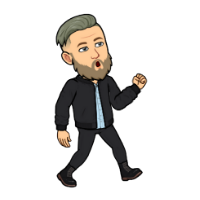
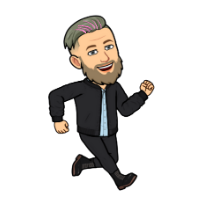
Added Sean character, game board background and user controlled movements.

Changed region(s): [[0.24, 0.06, 0.78, 0.96]]

diff --git a/Characters_and_Gameboard/sean_character.py b/Characters_and_Gameboard/sean_character.py
@@ -1,273 +1,101 @@
 import pygame
-import random
-import pygame.font
-import pygame.event
-import pygame.draw
-import os
-import sys
-from pygame.locals import * 
-# (
-#     RLEACCEL,
-#     K_UP,
-#     K_w,
-#     K_DOWN,
-#     K_LEFT,
-#     K_RIGHT,
-#     K_ESCAPE,
-#     KEYDOWN,
-#     QUIT,
-# )
+import math
 
+#Intialize Pygame
 pygame.init()
 
-#Define a player object by extedning pygame.sprite
-#The surgace drawn on the screen is now an attribute of the player
-class Player(pygame.sprite.Sprite):
-    def __init__(self,name, shirt_color, catch_phrase ):
-        super(Player, self).__init__()
-        #self.surf = pygame.Surface((75,25))
-        #self.surf.fill((255,255,255))
-        ##Adding a pic
-        self.name = name
-        self.shirt_color = shirt_color
-        self.catch_phrase = catch_phrase
-        self.surf = pygame.image.load("Sean_Front.png").convert()
-        self.surf.set_colorkey((0,0,0), RLEACCEL)
-        self.rect = self.surf.get_rect()
-    #moving based on keystrokes
-    def update(self, pressed_keys):
-        if pressed_keys[K_UP]:
-            self.rect.move_ip(0, -5)
-            self.surf = pygame.image.load("Sean_Jumping_Right.png").convert()
-            self.surf.set_colorkey((0,0,0), RLEACCEL)
-        if pressed_keys[K_DOWN]:
-            self.rect.move_ip(0, 5)
-            self.surf = pygame.image.load("Sean_Front.png").convert()
-            self.surf.set_colorkey((0,0,0), RLEACCEL)
-        if pressed_keys[K_LEFT]:
-            self.rect.move_ip(-5, 0)
-            self.surf = pygame.image.load("Sean_Walking_Left.png").convert()
-            self.surf.set_colorkey((0,0,0), RLEACCEL)
-        if pressed_keys[K_RIGHT]:
-            self.rect.move_ip(5, 0)
-            self.surf = pygame.image.load("Sean_Walking_Right.png").convert()
-            self.surf.set_colorkey((0,0,0), RLEACCEL)
-        #keep player on the board
-        #left side can't be less than the left side 0 point
-        if self.rect.left < 0:
-            self.rect.left = 0
-        #rightside can't be great than the width
-        if self.rect.right > SCREEN_WIDTH:
-            self.rect.right = SCREEN_WIDTH
-        #top can't be less than 0
-        if self.rect.top <= 0:
-            self.rect.top = 0
-        #bottom can't go above the top
-        if self.rect.bottom >= SCREEN_HEIGHT:
-            self.rect.bottom = SCREEN_HEIGHT
-#Define the enemy object
-#the surface that is drwan is now an attribute of enemy
-class Enemy(pygame.sprite.Sprite):
-    def __init__(self):
-        super(Enemy, self).__init__()
-        #self.surf = pygame.Surface((20,10))
-        #self.surf.fill((255,0,0))
-        self.surf = pygame.image.load('Pygame_Practice_Bullet.png').convert()
-        self.surf.set_colorkey((255,255,255), RLEACCEL)
-        self.rect = self.surf.get_rect(
-            center = (
-                random.randint(SCREEN_WIDTH + 20, SCREEN_WIDTH + 100),
-                random.randint(0, SCREEN_HEIGHT)
-            )
-        )
-        self.speed = random.randint(5, 20)
+#Create the screen W,H
+screen = pygame.display.set_mode((800,600))
+screenImg = pygame.image.load("Game_Board.png").convert()
+    
 
-    def update(self):
-        self.rect.move_ip(-self.speed,0)
-        if self.rect.right < 0:
-            self.kill()
+#Title and Icon 
+pygame.display.set_caption("Game Name")
 
-class Asteroid(pygame.sprite.Sprite):
-    def __init__(self):
-        super(Asteroid, self).__init__()
-        self.surf = pygame.image.load('Pygame_Practice_Bullet.png').convert()
-        self.surf.set_colorkey((250,250,250), RLEACCEL)
-        #self.surf = pygame.Surface((32,32))
-        #self.surf.fill((139,69,19))
-        self.rect = self.surf.get_rect(
-            center = (
-                random.randint(SCREEN_WIDTH +20, SCREEN_WIDTH + 100),
-                random.randint(0, SCREEN_HEIGHT)
-            )
-        )
-        self.speed = random.randint(1,5)
+#Player
+playerImg = pygame.image.load("Sean_Front.png").convert_alpha()
+playerX = 175
+playerY = 345
+playerX_change = 0
+playerY_change = 0
 
-    def update(self):
-        self.rect.move_ip(-self.speed, 0)
-        if self.rect.right < 0:
-            self.kill()
 
-def get_key():
-    while 1:
-        event = pygame.event.poll()
-        if event.type == KEYDOWN:
-            return event.key
-        else:
-            pass
+def player(x,y):
+    #Drawing image to screen
+    screen.blit(playerImg,(x,y))
 
-def display_box(screen, message):
-    "Print a message in a box in the middle of the screen"
-    #This sets the background for the text input. 
-    fontobject = pygame.font.Font(None, 18)
-    pygame.draw.rect(screen, (0, 0, 0),
-                     ((screen.get_width() / 2) - 100,
-                      (screen.get_height() / 2) - 10,
-                      200, 20), 0)
-    pygame.draw.rect(screen, (255, 255, 255),
-                     ((screen.get_width() / 2) - 102,
-                      (screen.get_height() / 2) - 12,
-                      204, 24), 1)
-    #This displays the messages
-    screen.blit(fontobject.render(message, 1, (255, 255, 255)),
-                    ((screen.get_width() / 2) - 100, (screen.get_height() / 2) - (10)))
-            
-    pygame.display.flip()
+#computer
+computerImg = pygame.image.load('laptop.png')
 
-def ask(screen, question): 
-    "ask(screen, question) -> answer"
-    pygame.font.init()        
-    current_string = []
-    display_box(screen, question + "".join(current_string))
-    while 1:
-        inkey = get_key()
-        if inkey == K_BACKSPACE:
-            current_string = current_string[0:-1]
-        elif inkey == K_RETURN:
-            # file = open(bad_words_file, 'r').readlines()
-            # if "".join(current_string) in [thing[:-1] for thing in file]:
-            #     current_string = []
-            # else:
-            break
-        elif inkey == K_MINUS:
-            current_string.append("_")
-        elif inkey <= 127:
-            current_string.append(chr(inkey))
-        display_box(screen, question + ": " + "".join(current_string))
-    return "".join(current_string)
-#def a message display function for placing text on the screen
-#nput("Tell me something:")
-
+compx = [72,400,80,650]
+compy = [113,400,368,400]
+def computer ():
+    screen.blit(computerImg,(compx[0],compy[0]))
+    screen.blit(computerImg,(compx[1],compy[1]))
+    screen.blit(computerImg,(compx[2],compy[2]))
+    screen.blit(computerImg,(compx[3],compy[3]))
+    
+#Game Loop
 running = True
-SCREEN_WIDTH = 700
-SCREEN_HEIGHT = 700
-screen = pygame.display.set_mode((SCREEN_WIDTH, SCREEN_HEIGHT))
-clock = pygame.time.Clock()
-score = 0
-#adding a background immage
-background_image = pygame.image.load('Pygame_Practice_Background.png').convert()
-
-
-screen_output = ask(screen, "Solution:")
-
-
-pygame.display.set_caption('Sky\'s the limit')
-
-# Create a custom event for adding a new enemy
-#events are integers, the last one that is recorded is called USEREVENT
-#ADDENEMY = pygame.USEREVENT + 1
-#Time is considered in milleseconds
-#pygame.time.set_timer(ADDENEMY, 250)
-
-#adding in cool asteroids that fly across the screen
-ADDASTEROID = pygame.USEREVENT + 2
-pygame.time.set_timer(ADDASTEROID, 1000)
-
-#Create new player
-player = Player(screen_output,"Red","Ahah" )
-#
-# Create groups to hold enemy sprites and all sprites
-# - enemies is used for collision detection and position updates
-# - all_sprites is used for rendering
-#enemies = pygame.sprite.Group()
-asteroids = pygame.sprite.Group()
-all_sprites = pygame.sprite.Group()
-#all_sprites.add(player)
-
-message = f"Welcome {player.name} to the flying game.\nHopefully this will \n wrap the text."
-
-ask(screen,message)
-
-#def a message display function for placing text on the screen
-#nput("Tell me something:")
-
-running = True
-
-
 while running:
-    try:
 
-        for event in pygame.event.get():
-            #Did the user hit a key?
-            if event.type == KEYDOWN:
-                #was it the escape key? If so Stop the loop
-                if event.key == K_ESCAPE:
-                    running = False
+    screen.blit(screenImg,(0,0))
 
-            #Did the user click the exit button on the window?
-            elif event.type == QUIT:
-                running = False
-            #Add a new enemy
-            #elif event.type == ADDENEMY:
-                #Create the new enemy and add it to the sprite groups
-                #new_enemy = Enemy()
-                #add it to the groups
-                #enemies.add(new_enemy)
-                #all_sprites.add(new_enemy)
-        
-            elif event.type == ADDASTEROID:
-                #print("happened")
-                new_asteroid = Asteroid()
-                asteroids.add(new_asteroid)
-                all_sprites.add(new_asteroid)
-    except:       
-        print("Something wrong with asteroid call...")
-    #Get the set of keys pressed and check for user input
-    pressed_keys = pygame.key.get_pressed()
-    #Update the player sprite based on user keypresses
-    #called before so that it is behind user. 
-    asteroids.update()
-    player.update(pressed_keys)
-    #update the enemy positions
-    #enemies.update()
-    
-    #screen_output = ask(screen, "Name") + " was entered"
-    #fills the screen with black
-    screen.blit(background_image,(0,0))
-    
-    #this line says "draw surf onto the screen at the center"
-    #define player for actual center of screen
-    
-    #blit player onto the screen
-    #screen.blit(player.surf, player.rect)
-    
-    #perform location update on all sprites
-    for entity in all_sprites:
-        screen.blit(entity.surf, entity.rect)
-    screen.blit(player.surf, player.rect)
-    #check for a collision in the game between an enemy and the player
-    #if pygame.sprite.spritecollideany(player, enemies):
-    #    player.kill()
-    #    running = False
-    #update screen
-    pygame.display.flip()
-    score += 1
-    clock.tick(60)
+    #Gets events from inside the Pygame screen
+    for event in pygame.event.get():
+        #Checking if x quit button is pressed
+        if event.type == pygame.QUIT:
+            #Condition to exit the while loop
+            running = False 
+        #if a keystroke is pressed check whether right or left 
+        if event.type == pygame.KEYDOWN:
+            if event.key == pygame.K_LEFT:
+                playerX_change = -4
+                playerImg = pygame.image.load("Sean_Walking_Left.png").convert_alpha()
+            if event.key == pygame.K_RIGHT:
+                playerX_change = 4
+                playerImg = pygame.image.load("Sean_Walking_Right.png").convert_alpha()
+            if event.key == pygame.K_UP:
+                playerY_change = -4
+                playerImg = pygame.image.load("Sean_Float_Up.png").convert_alpha()
+            if event.key == pygame.K_DOWN:
+                playerY_change = 4
 
+        if event.type ==  pygame.KEYUP:
+            if event.key == pygame.K_RIGHT:
+                playerImg = pygame.image.load("Sean_Walking_Right_Alt.png").convert_alpha()
+                playerX_change = 0
+                playerY_change = 0
 
-    # if len(messages) != 0:
-    #     x = 1
-    #     for message in messages:
-    #         screen.blit(fontobject.render(message, 1, (255, 255, 255)),
-    #                 ((screen.get_width() / 2) - 100, (screen.get_height() / 2) - (10*x)))
-    #         x += 1
-    # pygame.display.flip()   
+            if event.key == pygame.K_LEFT:
+                playerImg = pygame.image.load("Sean_Walking_Left_Alt.png").convert_alpha()
+                playerX_change = 0
+                playerY_change = 0
+
+            if event.key == pygame.K_UP:
+                playerImg = pygame.image.load("Sean_Float_Up_Alt.png").convert_alpha()
+                playerX_change = 0
+                playerY_change = 0
+
+            if event.key == pygame.K_DOWN:
+                playerImg = pygame.image.load("Sean_Front.png").convert_alpha()
+                playerX_change = 0
+                playerY_change = 0
+
+    # Drawing the player on the screen with a boundary
+    playerX += playerX_change
+    playerY += playerY_change
+    if playerX <= 0:
+        playerX = 0 
+    elif playerX >= 625: 
+        playerX = 625
+    if playerY <= 0:
+        playerY = 0 
+    elif playerY >= 345:
+        playerY = 345
+
+    #fuction to call computer
+    computer()
+    #function to display player
+    player(playerX,playerY)
+    pygame.display.update() 
